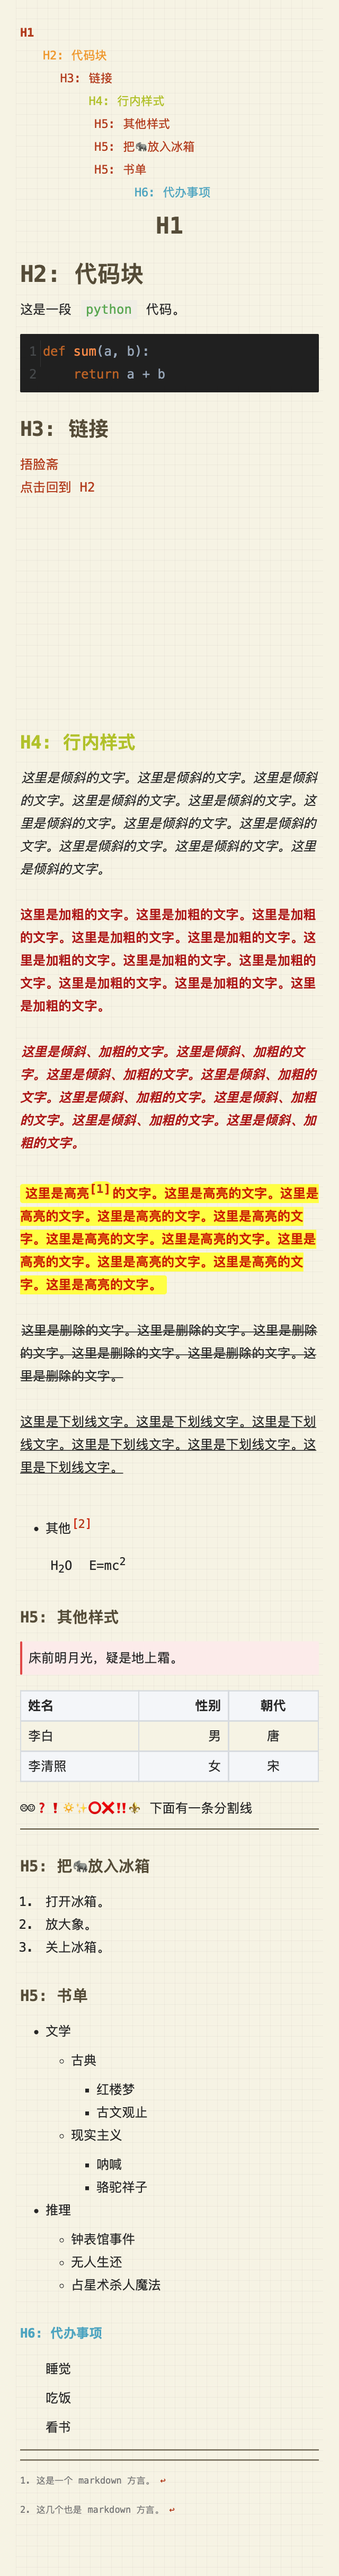
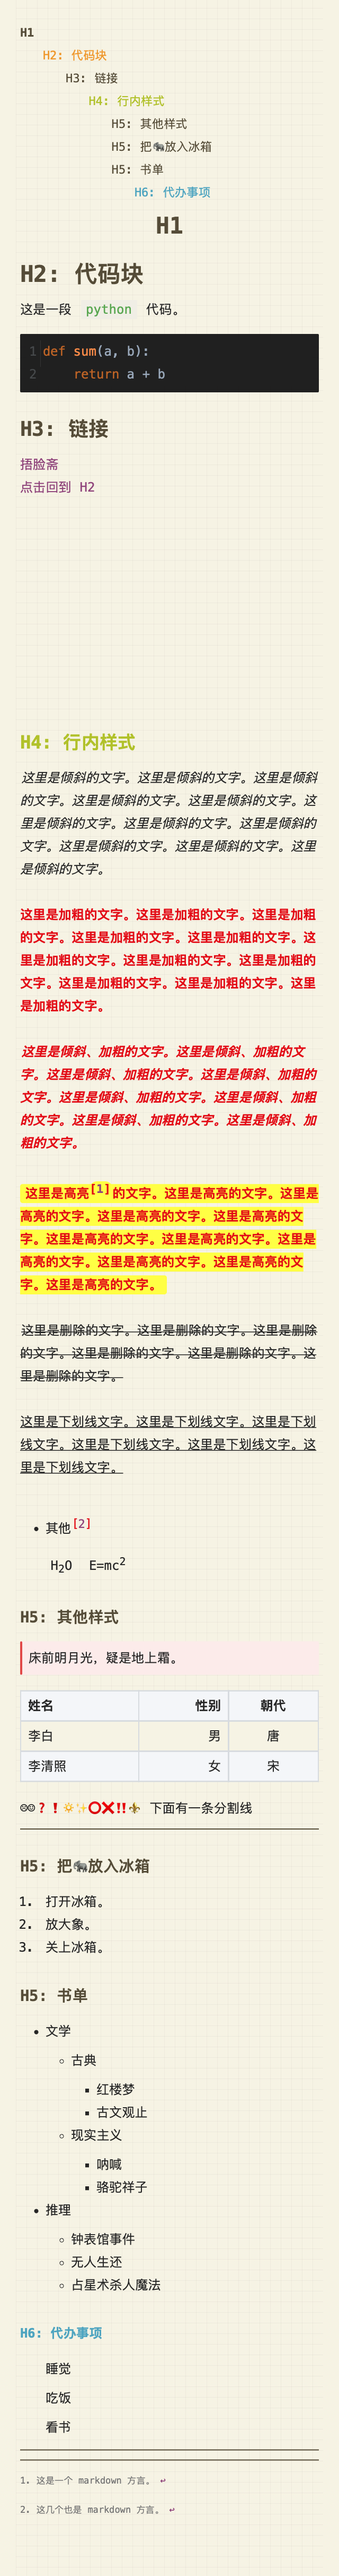
调整了高亮、a 标签的颜色.

diff --git a/fall-clouds.css b/fall-clouds.css
@@ -29,8 +29,8 @@
     --active-file-bg-color: var(--item-hover-bg-color);
 
     --drake-accent: #e95f59;
-    --drake-highlight: #d63200;
-    --a-color: #C14F24;
+    --drake-highlight: #eb261a;
+    --a-color: #a35c8f;
     --variable-color: var(--drake-highlight);
     --outline-active-color: var(--a-color);
     --code-block-bg-color: #2b2b2b;
@@ -44,7 +44,7 @@
     --blockquote-color: var(--text-color);
     --blockquote-bg-color: #fdefee;
 
-    --strong-color: #BC271A;
+    --strong-color: #eb261a;
     --h2-underline-color: #f4a83a;
     --h4-underline-color: #bec936;
     --h6-underline-color: #5cb3cc;
@@ -545,9 +545,10 @@ kbd {
     padding-bottom: 20px;
 }
 
-.md-toc-h1.md-toc-inner {
+.md-toc-h1 .md-toc-inner {
     margin-left: 0;
-    font-weight:700
+    font-weight:700;
+    color: var(--title-color) !important;
 }
 
 .md-toc-h2 .md-toc-inner {
@@ -555,8 +556,9 @@ kbd {
     color: var(--h2-underline-color) !important;
 }
 
-.md-toc-h3.md-toc-inner {
-    margin-left:4em
+.md-toc-h3 .md-toc-inner {
+    margin-left:4em;
+    color: var(--title-color) !important;
 }
 
 .md-toc-h4 .md-toc-inner {
@@ -564,8 +566,9 @@ kbd {
     color: var(--h4-underline-color) !important;
 }
 
-.md-toc-h5.md-toc-inner {
-    margin-left:8em
+.md-toc-h5 .md-toc-inner {
+    margin-left:8em;
+    color: var(--title-color) !important;
 }
 
 .md-toc-h6 .md-toc-inner {
